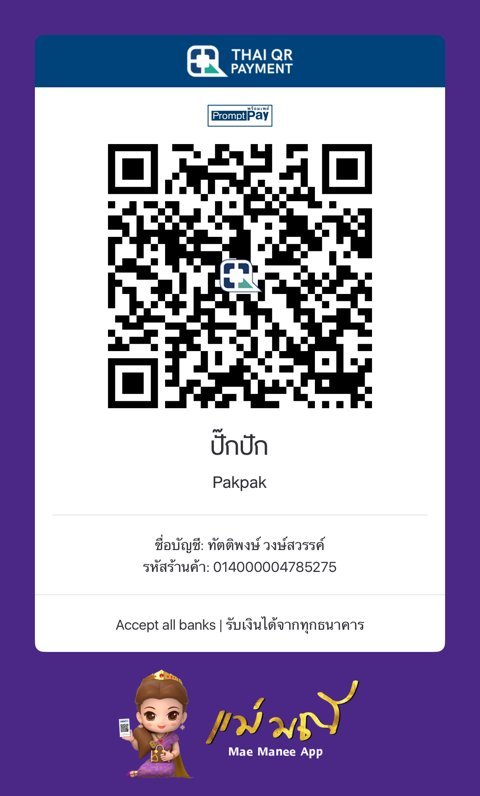
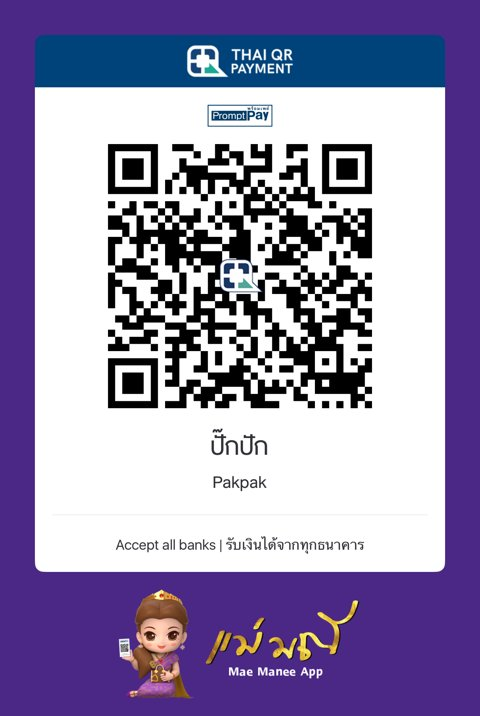
Payment QR: hide account owner name
Claude-Session: https://claude.ai/code/session_01D8Wn5N4uaQQV9mBXjJsa2V

Changed region(s): [[0.0625, 0.0307, 0.9375, 0.9832]]

diff --git a/web/app/api/line/webhook/route.js b/web/app/api/line/webhook/route.js
@@ -218,7 +218,7 @@ function buyCard(m, why) {
 function payInfo(plan) {
   const amount = (plan === "year" ? PRICE.year : PRICE.month).toLocaleString("en-US");
   return [
-    text(`แพ็ก Pro ${plan === "year" ? "รายปี" : "รายเดือน"} ยอด ฿${amount}\n\n1) สแกน QR พร้อมเพย์ด้านล่าง (ร้าน ปั๊กปัก · บัญชี ทัตติพงษ์ วงษ์สวรรค์) รับได้ทุกธนาคาร\n2) โอน ฿${amount} แล้วส่งรูปสลิปในแชทนี้\n\nแอดมินตรวจแล้วเปิดสิทธิ์ให้ ระบบจะแจ้งในแชทนี้ทันที`),
+    text(`แพ็ก Pro ${plan === "year" ? "รายปี" : "รายเดือน"} ยอด ฿${amount}\n\n1) สแกน QR พร้อมเพย์ด้านล่าง ร้าน ปั๊กปัก รับได้ทุกธนาคาร\n2) โอน ฿${amount} แล้วส่งรูปสลิปในแชทนี้\n\nแอดมินตรวจแล้วเปิดสิทธิ์ให้ ระบบจะแจ้งในแชทนี้ทันที`),
     { type: "image", originalContentUrl: `${APP}/pay-qr.jpg`, previewImageUrl: `${APP}/pay-qr-preview.jpg` },
   ];
 }
